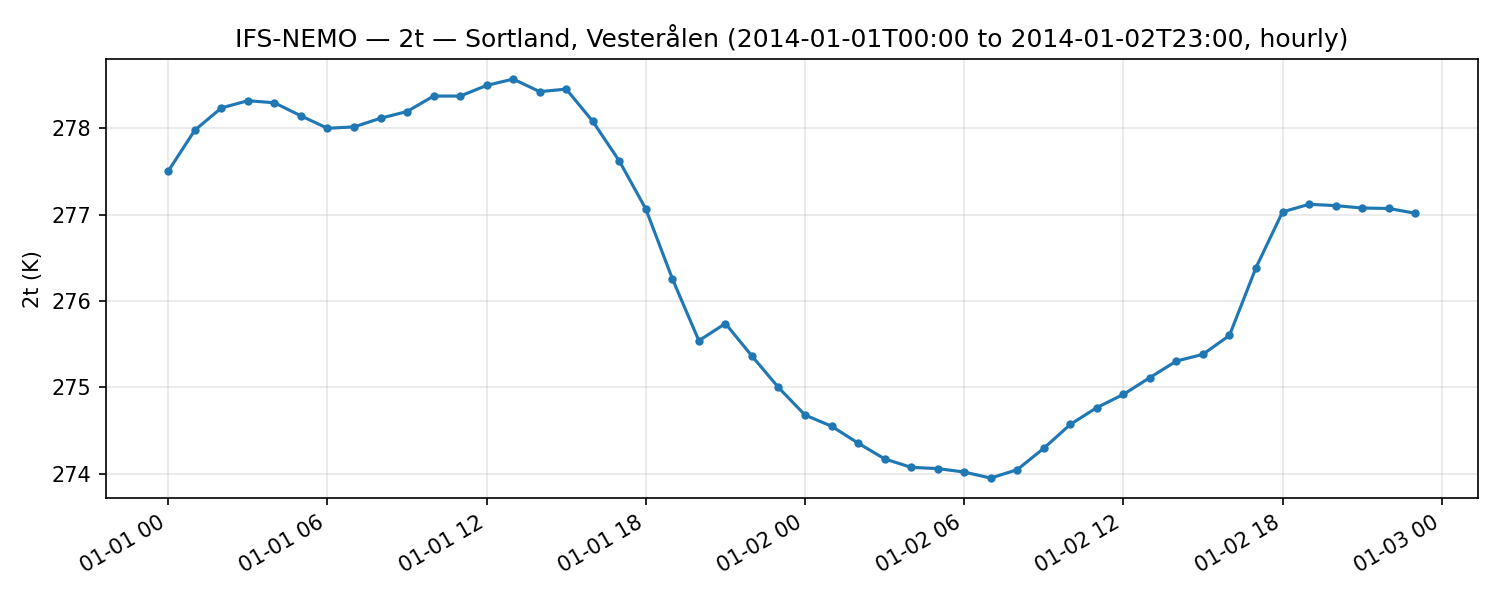
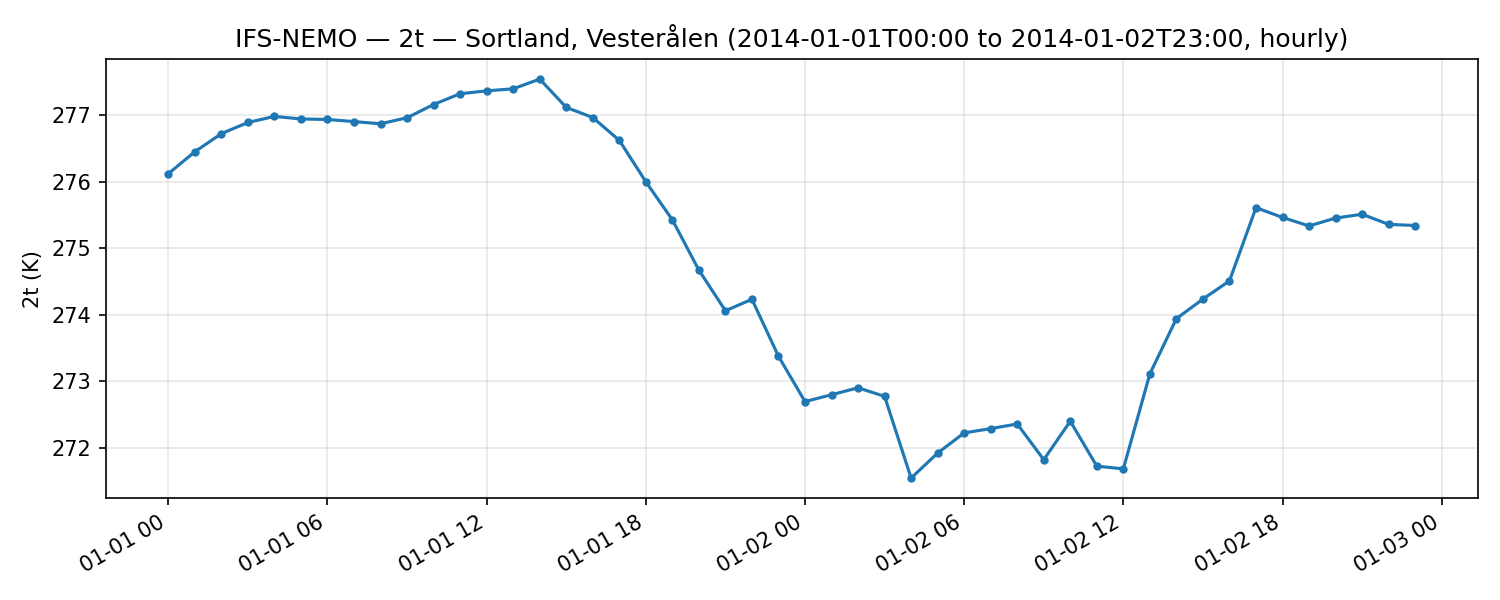
Use the high-resolution store for the Sortland timeseries too
All Vesterålen requests are now high resolution. Updated the point
plots and the findings in the README.

diff --git a/climate-dt/explorer/vesteralen/vesteralen_common.py b/climate-dt/explorer/vesteralen/vesteralen_common.py
@@ -70,9 +70,10 @@ def parse_args(description):
     return args
 
 
-def open_store(freq, resolution="high"):
+def open_store(freq):
+    # always the high-resolution store (nside 1024, ~4.4 km)
     kwargs = dict(models=["ICON", "IFS-FESOM", "IFS-NEMO"], experiment="hist",
-                  resolution=resolution, levtype="sfc")
+                  resolution="high", levtype="sfc")
     if freq == "hourly":
         kwargs.update(frequency="hourly", start_date="1990-01-01T00:00:00",
                       end_date="2014-12-31T23:00:00")

diff --git a/climate-dt/explorer/vesteralen/plot_point_timeseries.py b/climate-dt/explorer/vesteralen/plot_point_timeseries.py
@@ -6,8 +6,7 @@ from vesteralen_common import POINT, POINT_NAME, REGION, open_store, parse_args,
 
 args = parse_args(__doc__)
 cfg = args.cfg
-# The notebooks take point timeseries from the standard-resolution store
-store, ds = open_store(args.freq, resolution="standard")
+store, ds = open_store(args.freq)
 
 ts_result = ds[cfg["var"]].polytope.sel(model=cfg["ts_model"], time=cfg["ts_time"], point=POINT)
 

diff --git a/climate-dt/explorer/vesteralen/README.md b/climate-dt/explorer/vesteralen/README.md
@@ -53,6 +53,9 @@ The settings shared by all scripts (box, outline, Sortland coordinates, model, d
 the northern and western part of Hinnøya, so it is approximate. To use all of Norway instead,
 replace `SHAPES` with `earthkit.geo.cartography.country_polygons(["Norway"], resolution=50e6)`.
 
+All requests use the high-resolution store (nside 1024, about 4.4 km). The notebooks use
+standard resolution for some cells; the scripts never do.
+
 Default cases (same as the notebooks):
 
 - monthly: IFS-FESOM, `avg_2t`, June 2010 (timeseries: all of 2010)
@@ -76,8 +79,7 @@ detail.
 
 ![area, monthly](plots/vesteralen_area_regridded_monthly.png)
 
-**Point timeseries (Sortland).** These requests use the standard-resolution store, the same
-as the notebooks.
+**Point timeseries (Sortland).** The value of the high-resolution cell at Sortland.
 
 ![point, monthly](plots/vesteralen_point_timeseries_monthly.png)
 
@@ -91,14 +93,14 @@ These are first impressions from single dates, not a proper evaluation.
 - **The land–sea contrast in winter is strong.** At noon on 1 January 2014 (ICON), the open
   sea west of the islands is at about 271–272 K. Inland on Langøya and Hinnøya it drops to
   about 249 K (−24 °C). Andøya and the outer coast are somewhere in between.
-- **Point values depend on the resolution.** At Sortland on the same day, IFS-NEMO at
-  standard resolution gives 274–278.6 K, well above zero. A standard-resolution cell is about
-  50 km across and here it is mostly sea, so the point series looks maritime even where the
-  high-resolution land cells are far below zero. For anything local, the high-resolution
-  store is needed. Part of the gap is also simply a different model.
-- **The seasonal cycle at Sortland** (IFS-FESOM 2010, monthly means) runs from about 268 K in
-  February to 283 K in July, roughly −5 °C to +10 °C. That fits the mild, maritime climate up
-  there.
+- **Sortland stays mild in IFS-NEMO.** On 1–2 January 2014, IFS-NEMO gives 271.5–277.5 K at
+  Sortland, so mostly just above freezing. Sortland is on the coast, but the gap to ICON's cold
+  inland cells on the same day is large. It's worth comparing the models at the same point
+  before reading much into it.
+- **The seasonal cycle at Sortland** (IFS-FESOM 2010, monthly means) runs from about 263.5 K in
+  February to 284 K in July, roughly −10 °C to +11 °C. As a quick check, the standard-resolution
+  store gives a noticeably flatter cycle there, about 268–283 K, because its ~50 km cell is
+  mostly sea.
 
 ## Notes
 
